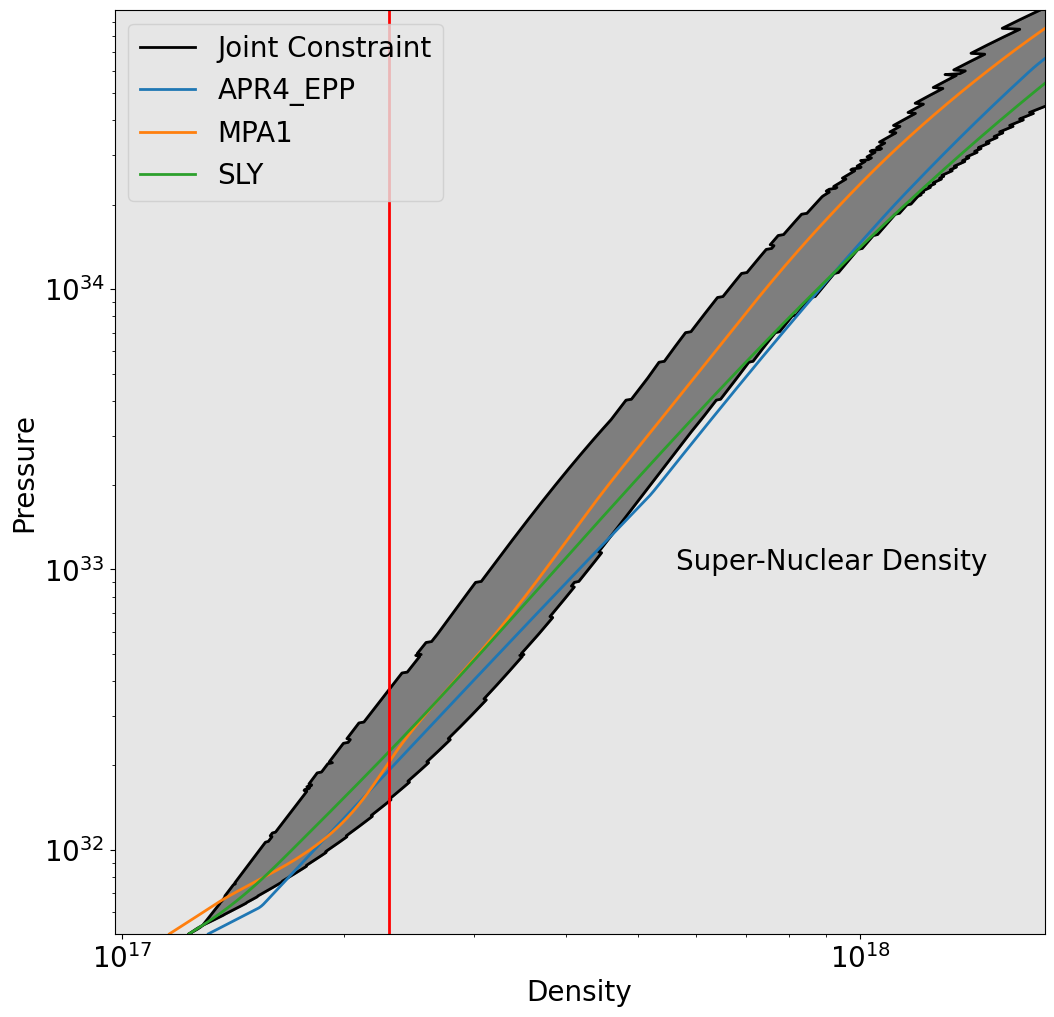
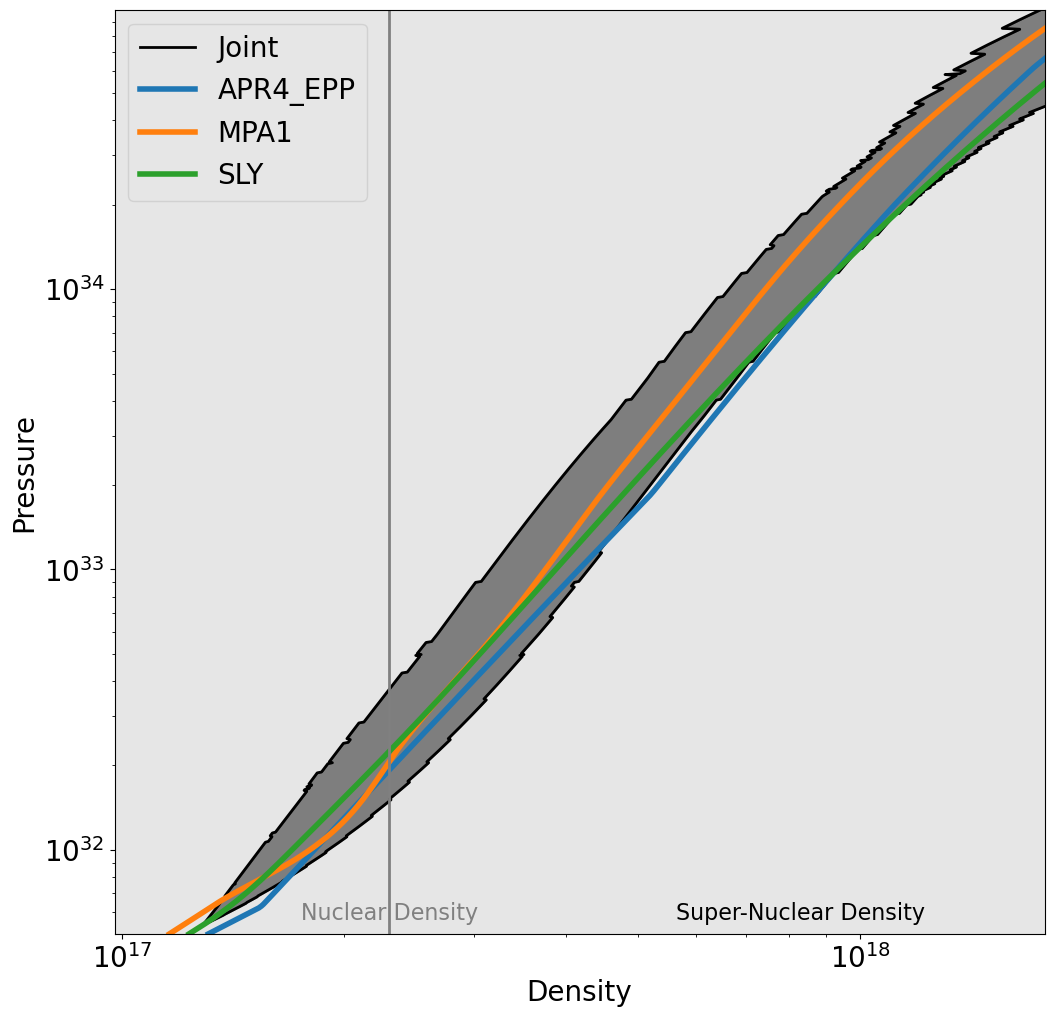
Final CASABONA plot revisions 28

diff --git a/joint_inference/development/SpringPresentation.py b/joint_inference/development/SpringPresentation.py
@@ -56,12 +56,12 @@ def overlap_namedEoS_constraint_p_rho(EoS_Names):
     pl.rc('ytick', direction='out', color='black', labelcolor='black')
     pl.rc('lines', linewidth=2)
 
-    File = "run_data/8th_cutoff_plotting/spectral_p_vs_rho_cutoff_W100_S10000_J0030_confidence.txt"
-    #File = "run_data/8th_cutoff_plotting/spectral_p_vs_rho_cutoff_W100_S10000_GW170817_J0030_hierarchical_confidence.txt"
-    label = "X-ray obs"
-    #label = "Joint"
-    color = "#7570b3"
-    #color = "#000000"
+    #File = "run_data/8th_cutoff_plotting/spectral_p_vs_rho_cutoff_W100_S10000_J0030_confidence.txt"
+    File = "run_data/8th_cutoff_plotting/spectral_p_vs_rho_cutoff_W100_S10000_GW170817_J0030_hierarchical_confidence.txt"
+    #label = "X-ray obs"
+    label = "Joint"
+    #color = "#7570b3"
+    color = "#000000"
     logp_grid, lower_bound, median, upper_bound = np.loadtxt(File).T
 
     ax1 = pl.gca()
@@ -85,8 +85,8 @@ def overlap_namedEoS_constraint_p_rho(EoS_Names):
             except RuntimeError: 
                 continue # ran into runtime error at some point due to energydensityofpressure function
 
-        pl.plot(density_grid, safety_logp_grid, label="Theoretical Model", linestyle="dashed", linewidth=4)
-        #pl.plot(density_grid, safety_logp_grid, label=EoS_Name, linewidth=2)
+        #pl.plot(density_grid, safety_logp_grid, label="Theoretical Model", linestyle="dashed", linewidth=4)
+        pl.plot(density_grid, safety_logp_grid, label=EoS_Name, linewidth=4)
 
     pl.vlines(x=2.3*10**17,ymin=min(logp_grid),ymax=max(logp_grid),color="gray")
     pl.text(1.75*10**17,10**31.75,"Nuclear Density",fontsize=16,color="gray")
@@ -96,6 +96,6 @@ def overlap_namedEoS_constraint_p_rho(EoS_Names):
     pl.xlabel('Density')
     pl.ylabel('Pressure')
     pl.legend()
-    pl.savefig("plots/overlap_APR4EPP_EM_constraint_p_rho.png", bbox_inches='tight')
-    #pl.savefig("plots/overlap_APR4EPP_joint_constraint_p_rho.png", bbox_inches='tight')
+    #pl.savefig("plots/overlap_APR4EPP_EM_constraint_p_rho.png", bbox_inches='tight')
+    pl.savefig("plots/overlap_APR4EPP_joint_constraint_p_rho.png", bbox_inches='tight')
 
